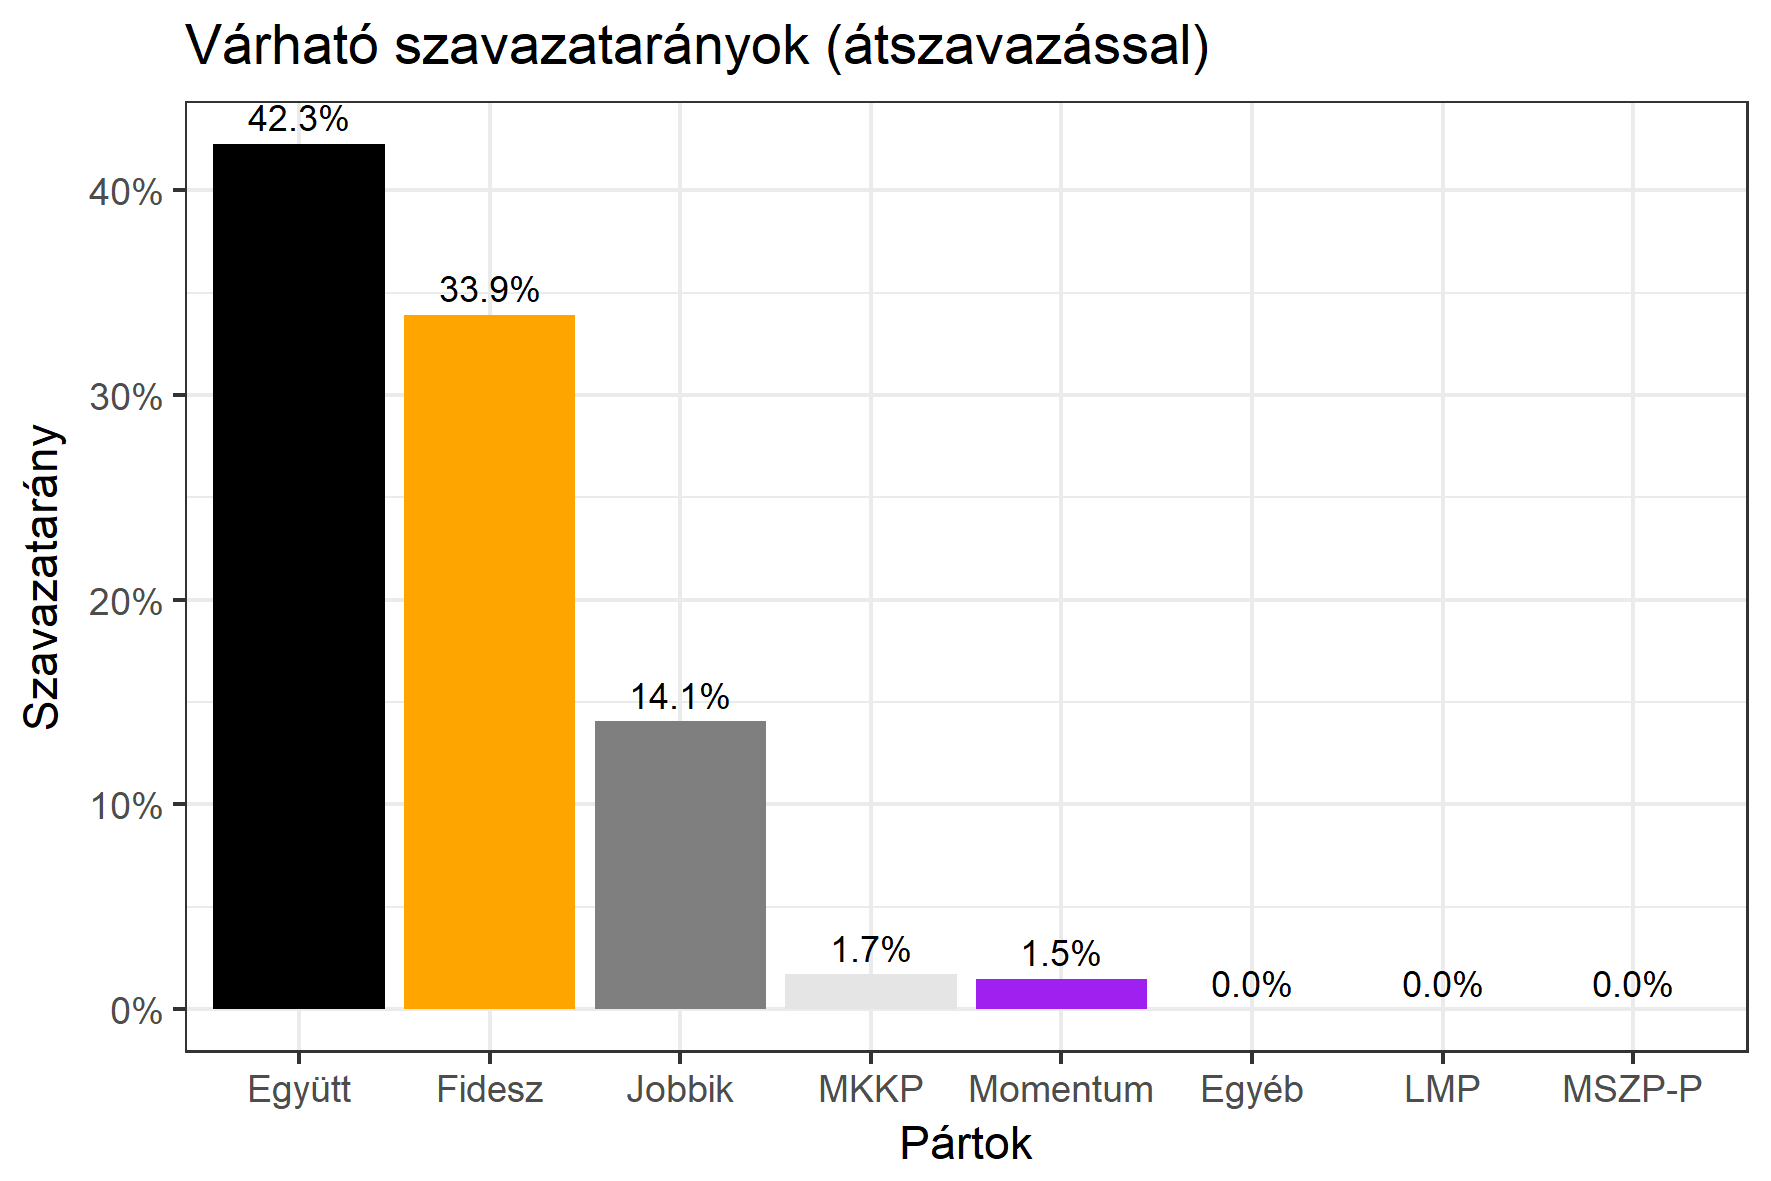
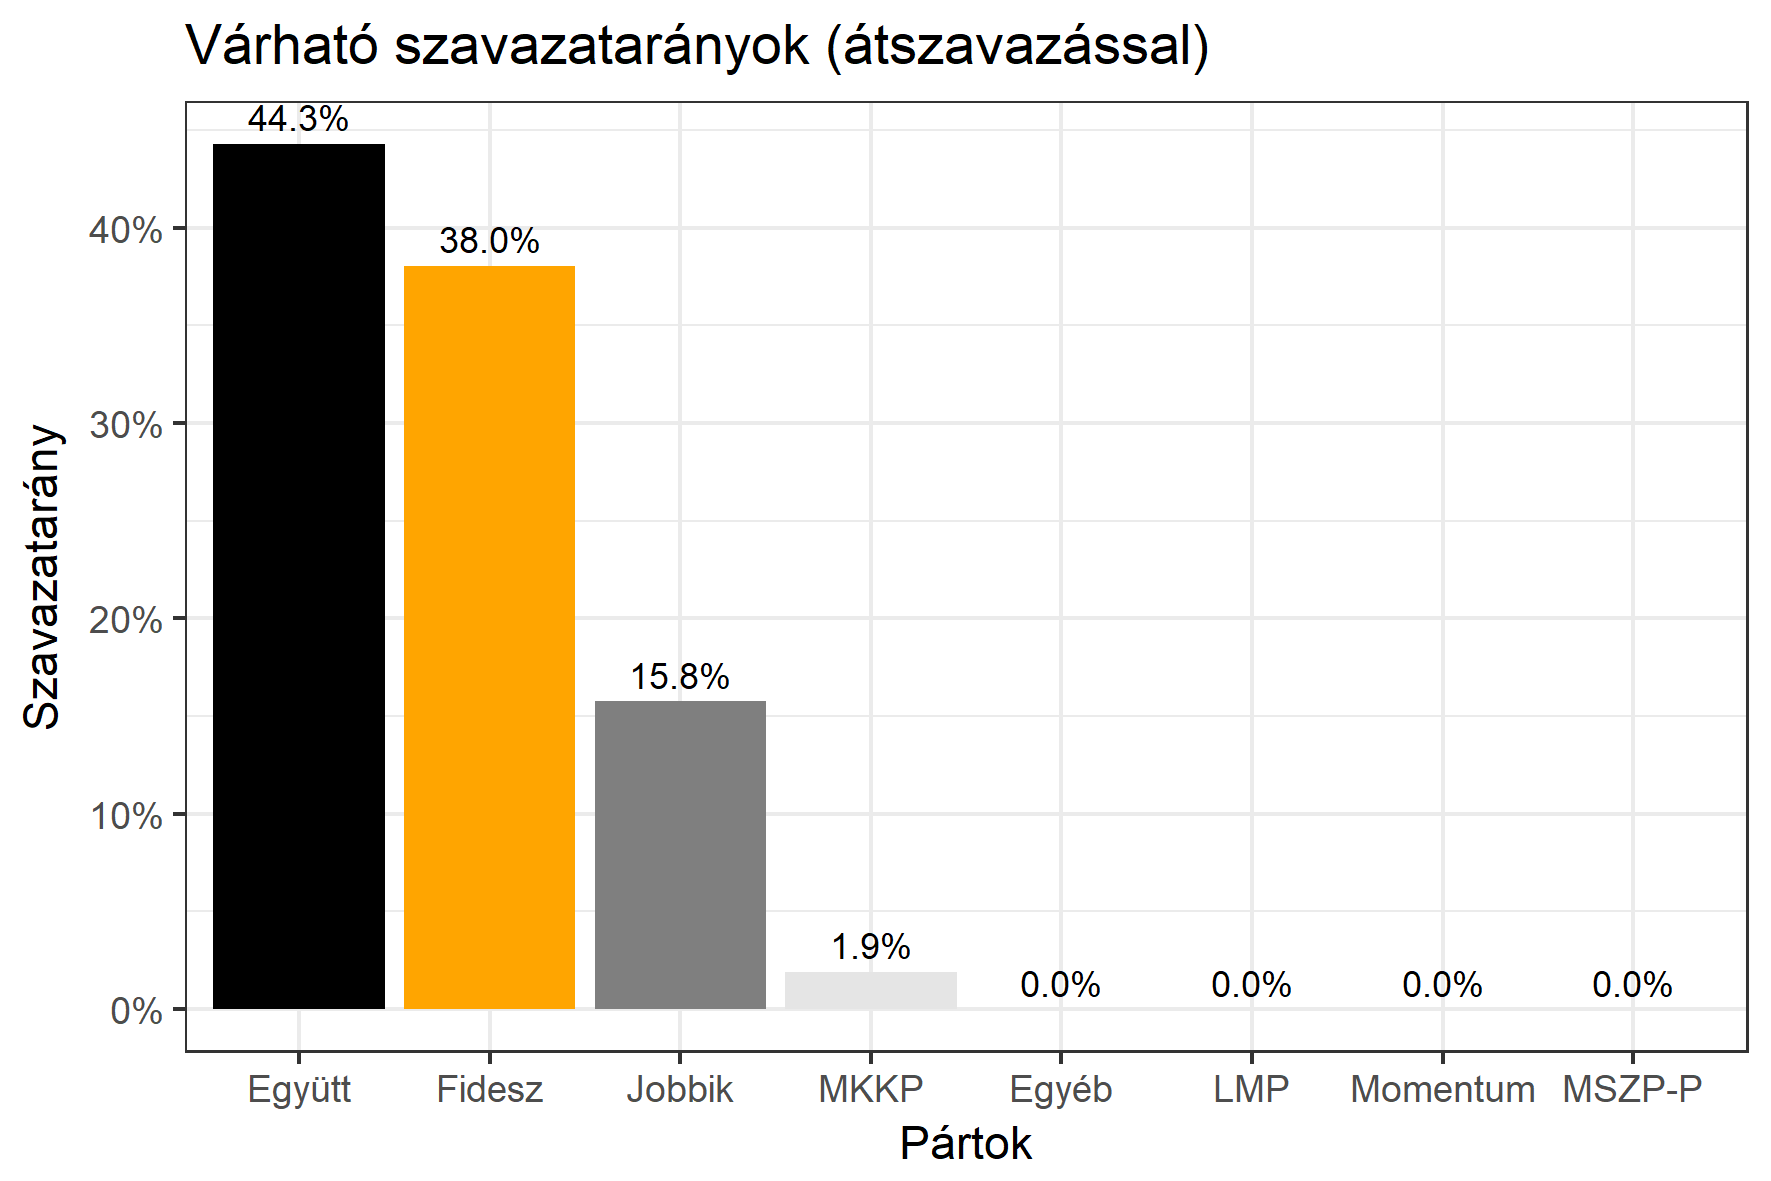
apr 04 visszalepesek bp17 typo 2

diff --git a/bp17.md b/bp17.md
@@ -27,16 +27,16 @@ permalink: /bp17
               <tbody>
              <tr>
                   <td>Németh Szilárd István - Fidesz-KDNP <img src="images/fideszkdnp_logo.png" style="width:55px;height:30px;"></td>
-				   <td id="id_fidesz">31.0% &emsp; <span id="id_fidesz2">(36.0%)</span></td>
+				   <td id="id_fidesz">31.0% &emsp; <span id="id_fidesz2">(38.0%)</span></td>
 			</tr>
-			<tr><td>Bereczki Miklós - Jobbik <img src="images/jobbik_logo.png" style="width:23px;height:30px;"></td> <td id="id_jobbik">17.1% &emsp; <span id="id_jobbik2">(14.1%)</span></td></tr>
+			<tr><td>Bereczki Miklós - Jobbik <img src="images/jobbik_logo.png" style="width:23px;height:30px;"></td> <td id="id_jobbik">17.1% &emsp; <span id="id_jobbik2">(15.8%)</span></td></tr>
 <tr>
 <td>dr. Szabó Szabolcs -  Együtt <img src="images/egyutt_logo2.png" style="width:71px;height:30px;"></td>
- <td id="id_egyutt">10.0% &emsp; <span id="id_egyutt2">(42.3%)</span></td>
+ <td id="id_egyutt">10.0% &emsp; <span id="id_egyutt2">(44.3%)</span></td>
 </tr>            
 <tr>
 <td>Soltész Szilvia Nikolett - MKKP <img src="images/mkkp_logo.png" style="width:49px;height:30px;"></td>
- <td id="id_mkkp">1.9% &emsp; <span id="id_mkkp2">(1.7%)</span></td> 
+ <td id="id_mkkp">1.9% &emsp; <span id="id_mkkp2">(1.9%)</span></td> 
 </tr>    
               </tbody>
             </table><h5>Várható győztes: <span id="gyoztes">Fidesz</span><span id="esely"></span><span></span></h5>
